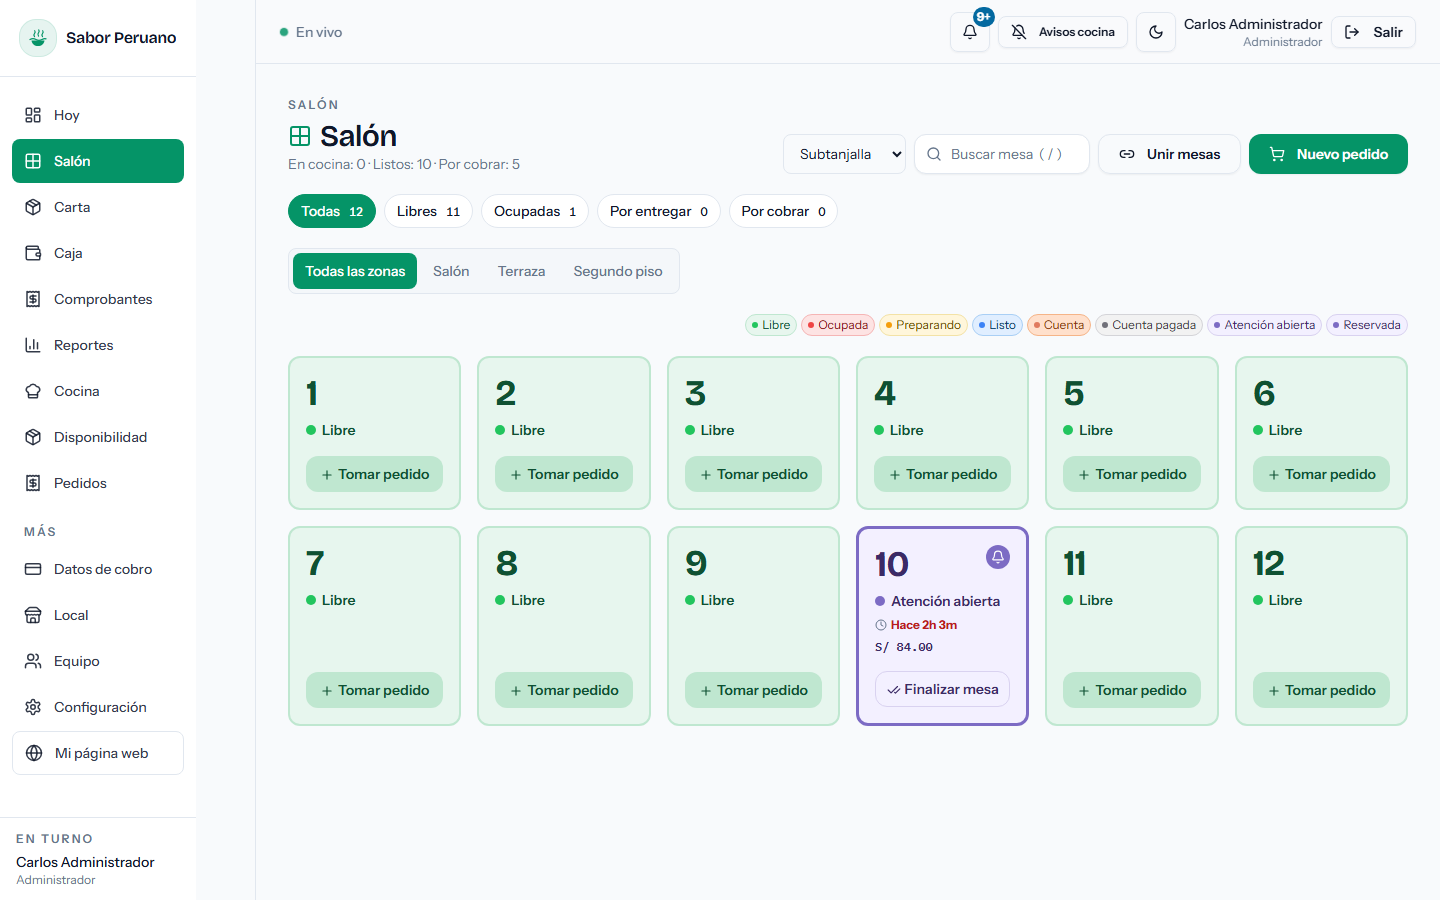
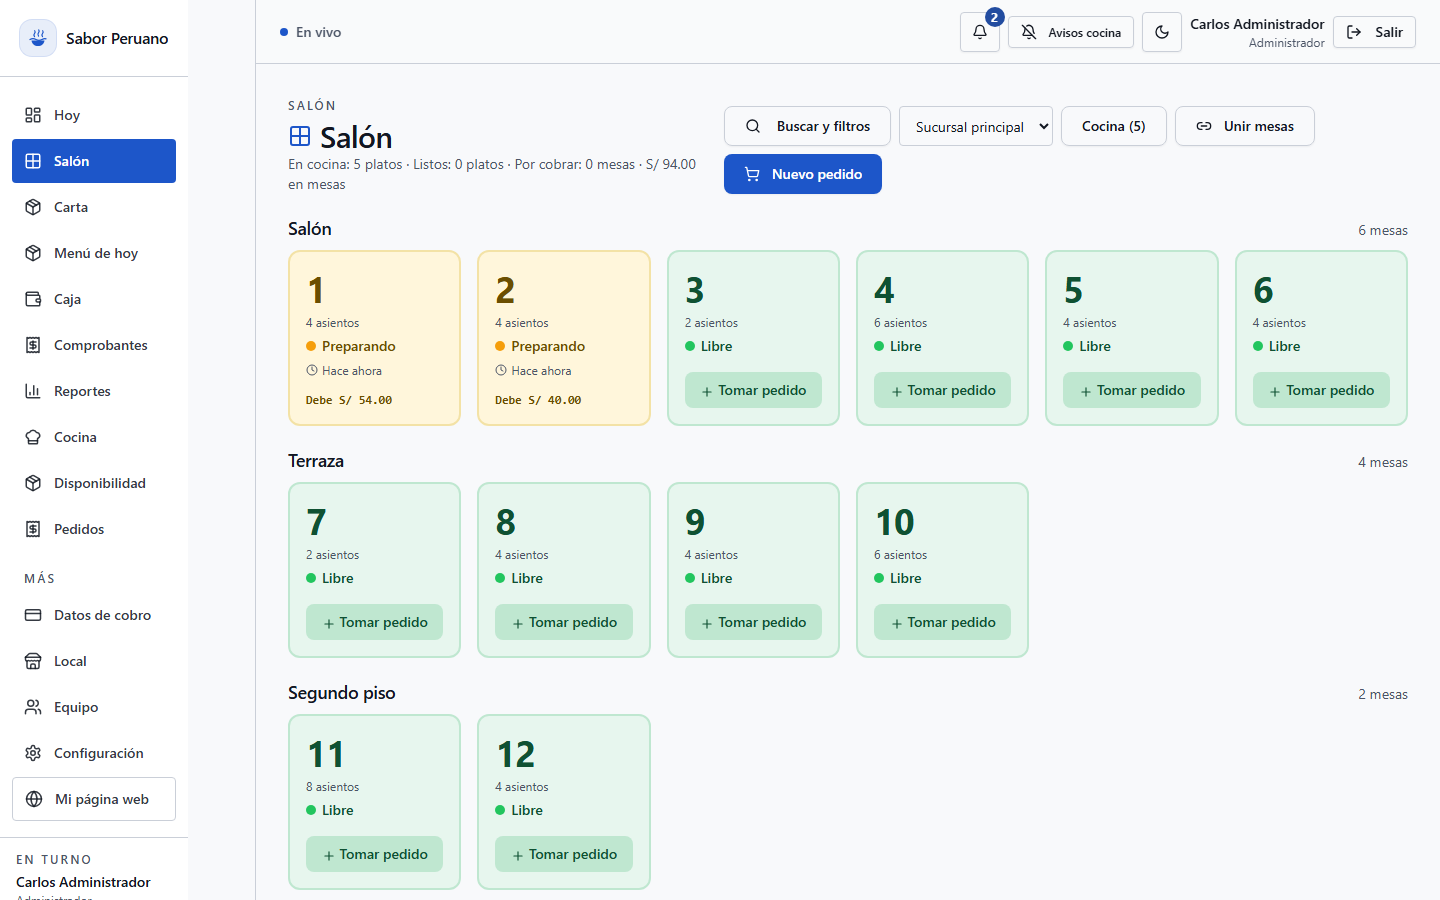
docs(readme): capturas del producto actual, con cocina, caja y cobro

diff --git a/README.md b/README.md
@@ -13,13 +13,21 @@ Pensado para restaurantes de Perú (montos en soles, Yape/Plin, comprobantes), p
 
 ## Capturas
 
-| Salón (administrador) | Cuenta por persona |
+| Salón en servicio | Comanda: la carta en la mesa |
 |---|---|
-| ![Salón con zonas, estados de mesa y barra de acciones](docs/capturas/01-salon.png) | ![Hoja de mesa con cuentas por persona, productos y acciones](docs/capturas/02-cuenta-por-persona.png) |
+| ![Salón con zonas, mesas preparando y total por mesa](docs/capturas/01-salon.png) | ![Compositor de pedido con la carta, categorías y precios](docs/capturas/02-comanda.png) |
 
-| Comanda y cobro | Salón en móvil (mozo) |
+| Pase de cocina | Caja: cuentas por cobrar |
 |---|---|
-| ![Hoja de mesa lista para entregar con resumen y acciones](docs/capturas/03-comanda.png) | ![Salón en pantalla de móvil](docs/capturas/04-salon-movil.png) |
+| ![Pase con pedidos que llegan y al fuego, con tiempo transcurrido](docs/capturas/03-cocina.png) | ![Caja abierta con ventas del día y cuentas pendientes](docs/capturas/04-caja.png) |
+
+| Cobro con medios de pago | Reportes del día |
+|---|---|
+| ![Diálogo de cobro con efectivo, Yape, Plin, tarjeta, transferencia y mixto](docs/capturas/05-cobro.png) | ![Reporte de ventas, ticket promedio y productos más vendidos](docs/capturas/06-reportes.png) |
+
+Salón en el móvil del mozo:
+
+<img src="docs/capturas/07-salon-movil.png" width="320" alt="Salón en pantalla de móvil, con mesas ocupadas y navegación inferior" />
 
 ## Empezar en dos comandos
 
